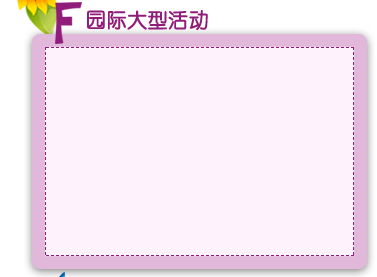
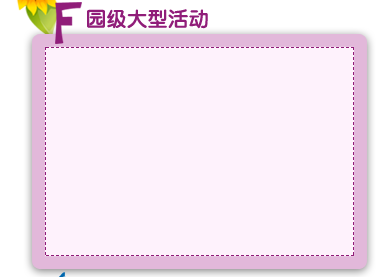
友情链接图片加外框样式 园际大型活动  图标  -->  园级大型活动

Changed region(s): [[0.2334, 0.0289, 0.5544, 0.1155]]

diff --git a/app/Plugin/Cd4you/webroot/css/layout.css b/app/Plugin/Cd4you/webroot/css/layout.css
@@ -211,6 +211,13 @@ blr:expression(this.onFocus=this.blur());
 	padding-left: 15px;
 }
 
+.w950 .yqlink .pcitupian img {
+	background: #EDF9FA;
+	height: 68px;
+	width: 152px;
+	border: 1px solid #C6E9F2;
+}
+
 /*** 二级栏目****/
 
 .sidebar_left {
